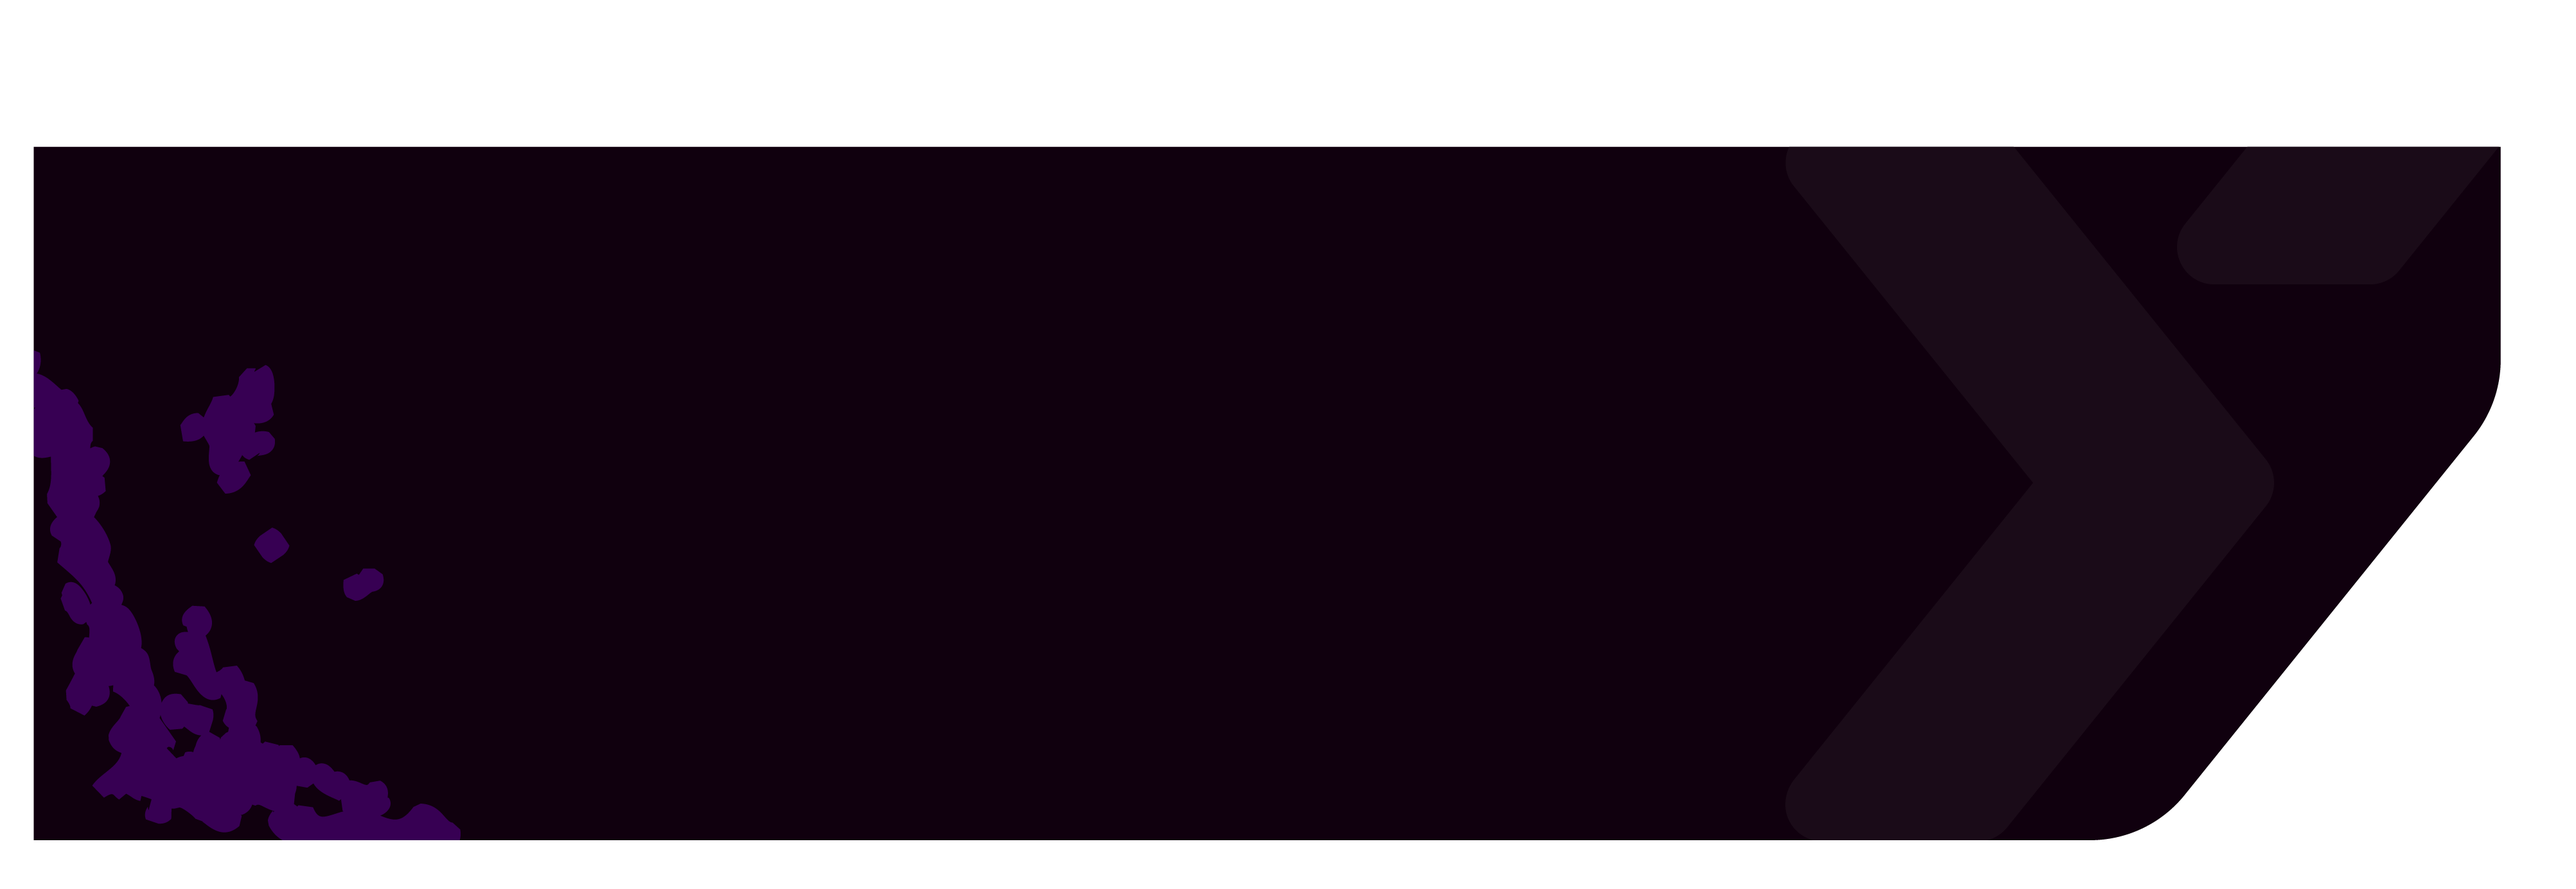
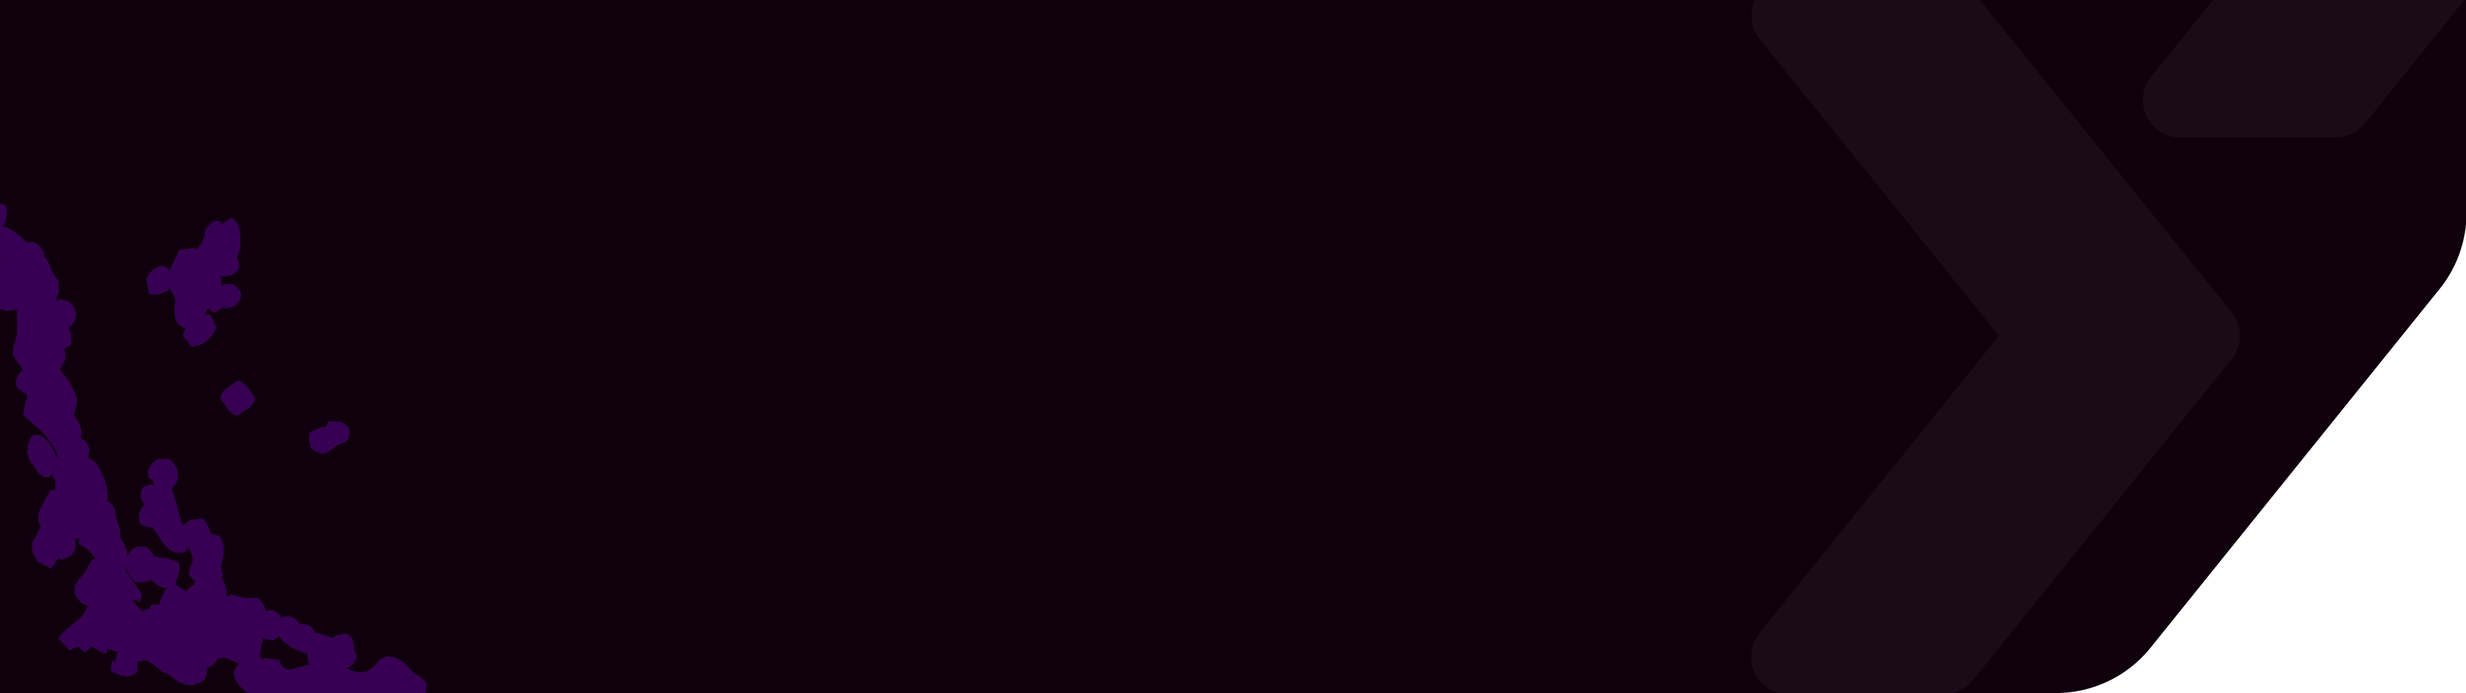
Team, Footer : update section

Changed region(s): [[0.0, 0.0, 1.0, 1.0], [0.093, 0.55, 0.155, 0.6722]]

diff --git a/src/templates/Footer.tsx b/src/templates/Footer.tsx
@@ -1,6 +1,5 @@
 import Link from 'next/link';
-import { FaDiscord, FaTwitter, FaYoutube } from 'react-icons/fa';
-import { FiMail } from 'react-icons/fi';
+import { FaDiscord, FaTwitter } from 'react-icons/fa';
 
 import { Background } from '@components/background/Background';
 import { Section } from '@components/layout/Section';
@@ -9,66 +8,81 @@ const Footer = () => {
   const menus = [
     {
       id: 1,
-      label: 'Terms and Conditions',
+      label: 'Drop Details and Tips',
       href: '/',
     },
     {
       id: 2,
-      label: 'Privacy Policy',
+      label: 'Traits & Rarities',
+      href: '/',
+    },
+    {
+      id: 3,
+      label: 'Terms of Service',
+      href: '/',
+    },
+    {
+      id: 4,
+      label: 'White Paper',
+      href: '/',
+    },
+    {
+      id: 5,
+      label: 'Complete Lore',
       href: '/',
     },
   ];
 
   return (
-    <Background color="bg-primary">
-      <Section className="lg:!px-8 flex justify-between" isFooter>
-        <div className="flex flex-wrap justify-between items-center">
-          <nav className="">
-            <ul className="navbar flex flex-col sm:flex-row gap-4 sm:gap-8 lg:gap-10 justify-start lg:justify-end items-start sm:items-center">
-              <li>
-                <span className="text-sm font-semibold text-white">
-                  Copyright &copy; Yooniez 2022
-                </span>
-              </li>
-              {menus.map((item: any) => {
-                return (
-                  <li
-                    key={item.id}
-                    className="flex justify-center items-center gap-3 whitespace-nowrap"
-                  >
-                    <Link href="/">
-                      <a className="text-sm text-white">{item.label}</a>
-                    </Link>
-                  </li>
-                );
-              })}
-            </ul>
-          </nav>
+    <Background
+      color="bg-secondary"
+      className="relative before:content-[''] before:absolute before:-top-20 before:left-0 before:bg-[url('/assets/images/bgs/bg-footer.png')] before:w-full before:h-full before:bg-cover z-[2]"
+    >
+      {/* <img
+        src="/assets/images/bgs/bg-footer.png"
+        alt=""
+        className="absolute hidden sm:block right-0 -top-20 sm:w-full z-[2]"
+      /> */}
+      <Section className="lg:!px-8 grid grid-cols-3 justify-between" isFooter>
+        <div />
+        <div className="z-[4] text-center flex flex-col gap-10">
+          <div>
+            <img
+              src="/assets/images/logos/logo-yooniez-purple.svg"
+              alt=""
+              className="inline h-12 mx-2 mb-1"
+            />
+          </div>
+
+          <div className="flex items-center justify-center gap-2">
+            <div className="rounded-md rounded-br-xl p-1 bg-primary text-white">
+              <FaTwitter size={16} />
+            </div>
+            <div className="rounded-md rounded-br-xl p-1 bg-primary text-white">
+              <FaDiscord size={16} />
+            </div>
+          </div>
+
+          <span className="text-sm text-black">&copy; 2022 Yooniez</span>
         </div>
-        <div className="flex flex-wrap justify-between items-center">
-          <nav className="">
-            <ul className="navbar flex flex-col sm:flex-row gap-4 sm:gap-8 lg:gap-10 justify-start lg:justify-end items-start sm:items-center">
-              <li className="flex justify-center items-center gap-3 whitespace-nowrap">
-                <Link href="/">
-                  <a className="text-sm text-white">
-                    <FiMail size={16} className="inline mr-2" />
-                    support@yooniez-nft.com
-                  </a>
-                </Link>
-              </li>
-              <li className="flex justify-center items-center gap-3">
-                <div className="rounded-full p-1 bg-white text-primary">
-                  <FaDiscord size={16} />
-                </div>
-                <div className="rounded-full p-1 bg-white text-primary">
-                  <FaYoutube size={16} />
-                </div>
-                <div className="rounded-full p-1 bg-white text-primary">
-                  <FaTwitter size={16} />
-                </div>
-              </li>
-            </ul>
-          </nav>
+        <div className="z-[4] text-right">
+          <h2 className="font-headline text-primary text-lg mb-2">
+            PUBLIC DOC
+          </h2>
+          <ul className=" flex flex-col gap-2 justify-start lg:justify-end items-end">
+            {menus.map((item: any) => {
+              return (
+                <li
+                  key={item.id}
+                  className="flex justify-center items-center gap-3 whitespace-nowrap"
+                >
+                  <Link href="/">
+                    <a className="text-sm text-black">{item.label}</a>
+                  </Link>
+                </li>
+              );
+            })}
+          </ul>
         </div>
       </Section>
     </Background>

diff --git a/src/components/page/home/team.tsx b/src/components/page/home/team.tsx
@@ -1,0 +1,120 @@
+/* eslint-disable no-nested-ternary */
+/* eslint-disable react-hooks/exhaustive-deps */
+import React from 'react';
+
+import { Fade, Zoom } from 'react-reveal';
+
+import { Background } from '@components/background';
+import { Section } from '@components/layout';
+
+const Traits = () => {
+  const [state, setState] = React.useState({
+    isReady: false,
+  });
+
+  React.useEffect(() => {
+    setTimeout(() => {
+      setState({ ...state, isReady: true });
+    }, 250);
+
+    return () => {};
+  }, []);
+
+  return (
+    <>
+      <Background
+        color="bg-primary
+        before:content-[''] before:absolute before:top-0 before:left-0 before:bg-[url('/assets/images/bgs/bg-grunge-purple.png')] before:mix-blend-multiply before:w-full before:h-full before:bg-cover
+        after:content-[''] after:absolute after:top-0 after:right-0 after:bg-[url('/assets/images/bgs/bg-coming-soon.png')] after:w-full after:h-full after:bg-contain after:bg-no-repeat 
+        "
+        className="relative z-[2] pb-48"
+      >
+        <img
+          src="/assets/images/bgs/bg-dots-purple-3.png"
+          alt=""
+          className="absolute hidden sm:block right-0 top-44 sm:w-1/2 z-[1] opacity-70 mix-blend-multiply"
+        />
+
+        <Section yPadding="py-[8%]">
+          <div className="relative flex flex-col justify-center z-[1]">
+            <div>
+              <Fade left duration={750} delay={0} when={state.isReady}>
+                <div className="text-center">
+                  <h2 className="text-xl sm:text-2xl lg:text-4xl mb-2 lg:mb-3 text-secondary font-headline">
+                    COMING TO YOU
+                  </h2>
+                  <h1 className="text-2xl sm:text-4xl lg:text-8xl mb-2 lg:mb-3 text-secondary font-headline">
+                    MID 2022
+                  </h1>
+                </div>
+              </Fade>
+            </div>
+          </div>
+        </Section>
+
+        <Section
+          yPadding="pt-8 sm:pt-16"
+          className="
+        before:content-[''] before:absolute before:top-0 before:right-0 before:bg-[url('/assets/images/vectors/diagonal-line-yellow.svg')] before:w-1/2 before:h-full before:bg-cover before:bg-no-repeat overflow-hidden
+        "
+        >
+          <div className="relative flex flex-col justify-center z-[1]">
+            <div>
+              <Fade left duration={750} delay={0} when={state.isReady}>
+                <div className="">
+                  <h1 className="text-outline text-xl sm:text-3xl lg:text-7xl mb-2 lg:mb-3 text-black font-headline">
+                    MEET
+                    <br />
+                    THE TEAM
+                  </h1>
+                </div>
+              </Fade>
+            </div>
+          </div>
+
+          <div className="relative flex flex-col justify-center z-[1]">
+            <Zoom duration={750} delay={250} when={state.isReady}>
+              <div className="mt-10 grid grid-cols-4 gap-6">
+                {[1, 2, 3, 4].map((item: any) => (
+                  <div key={item}>
+                    <img
+                      src={'/assets/images/illustrations/team-1.png'}
+                      alt=""
+                      className={`w-full aspect-auto ${
+                        item.id === 1 ? '' : 'mr-8'
+                      }`}
+                    />
+                  </div>
+                ))}
+              </div>
+              <div className="mt-10 grid grid-cols-6 gap-4">
+                {[1, 2, 3, 4, 5, 6].map((item: any) => (
+                  <div key={item}>
+                    <img
+                      src={'/assets/images/illustrations/team-1.png'}
+                      alt=""
+                      className={`w-full aspect-auto ${
+                        item.id === 1 ? '' : 'mr-8'
+                      }`}
+                    />
+                  </div>
+                ))}
+              </div>
+            </Zoom>
+          </div>
+        </Section>
+      </Background>
+
+      <style jsx>
+        {`
+          h1.text-outline {
+            -webkit-text-stroke: 2px #ffffff;
+            -webkit-text-fill-color: transparent;
+          }
+        `}
+      </style>
+    </>
+  );
+};
+
+export default Traits;

diff --git a/src/pages/index.tsx b/src/pages/index.tsx
@@ -1,4 +1,11 @@
-import { Banner, About, Chars, Roadmap, Video } from '@components/page/home';
+import {
+  Banner,
+  About,
+  Chars,
+  Roadmap,
+  Team,
+  Video,
+} from '@components/page/home';
 
 const Home = () => {
   return (
@@ -8,6 +15,7 @@ const Home = () => {
       <About />
       <Video />
       <Roadmap />
+      <Team />
     </>
   );
 };

diff --git a/src/components/page/home/index.ts b/src/components/page/home/index.ts
@@ -2,6 +2,7 @@ import About from './about';
 import Banner from './banner';
 import Chars from './chars';
 import Roadmap from './roadmap';
+import Team from './team';
 import Video from './video';
 
-export { Banner, About, Chars, Roadmap, Video };
+export { Banner, About, Chars, Roadmap, Team, Video };
